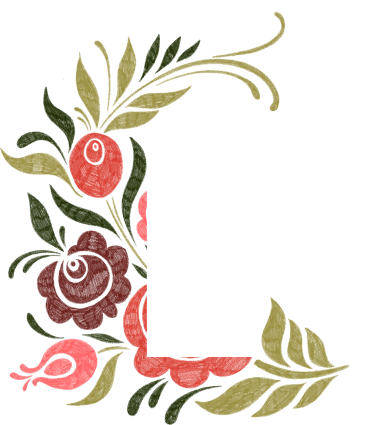
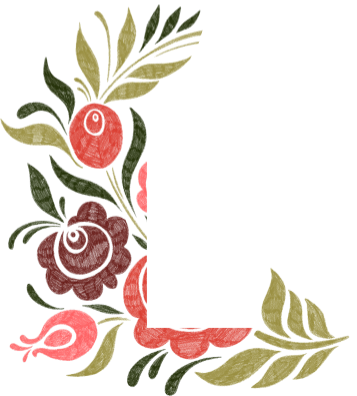
borders fix

Changed region(s): [[0.0, 0.0, 0.986, 1.0]]

diff --git a/app/parts/body/about.html b/app/parts/body/about.html
@@ -15,7 +15,7 @@
             <span><b style="color: #1e3b00;">Polish Association of Dental Students (PTSS)</b> is an organization associating students of the medical and dental faculty throughout Poland.
                 The scope of our activities includes scientific activities, organizing training for students and preventive campaigns aimed at educating the public about oral health.
                 <br><br>The PTSS branch at the Medical University of Lublin has almost 220 members. We pay particular attention to promoting proper oral hygiene among children and adults, but also to personal education and gaining experience during the workshops we organize. We have already organized our flagship National Scientific Conference Denteast twice - in 2016 and 2020, and each of them was very popular.</span>
-            <img src="images/dist/simple_flowers.svg" class="ptss_border">
+            <img src="images/dist/e.png" class="ptss_border">
         </div>
     </div>
 
@@ -46,16 +46,14 @@
             <div class="package">
                 <img src="images/dist/big_frame.png" class="package_a_border">
                 <h2 class="package_title">Package A</h2><br>
-                <span>Lorem ipsum dolor sit amet, consectetur adipiscing elit. Vivamus vitae massa a lorem blandit posuere vel in mauris.</span><br><br>
-                <span class="price">123€</span><br><br>
-                <span>Lorem ipsum dolor sit amet, consectetur adipiscing elit. Vivamus vitae massa a lorem blandit posuere vel in mauris.</span>
+                <span>Lectures and workshops<br>5 nights at 3-star hotel<br>3 meals per day<br>Social program<br>Gala night</span><br><br>
+                <span class="price">300€</span><br><br>
             </div>
             <div class="package">
                 <img src="images/dist/small_frame.png" class="package_b_border">
                 <h2 class="package_title">Package B</h2><br>
-                <span>Lorem ipsum dolor sit amet, consectetur adipiscing elit. Vivamus vitae massa a lorem blandit posuere vel in mauris.</span><br><br>
-                <span class="price">123€</span><br><br>
-                <span>Lorem ipsum dolor sit amet, consectetur adipiscing elit. Vivamus vitae massa a lorem blandit posuere vel in mauris.</span>
+                <span>Lectures and workshops<br>No accomodation<br>2 meals per day<br>Social program<br>Gala night</span><br><br>
+                <span class="price">200€</span><br><br>
             </div>
         </div>
 
